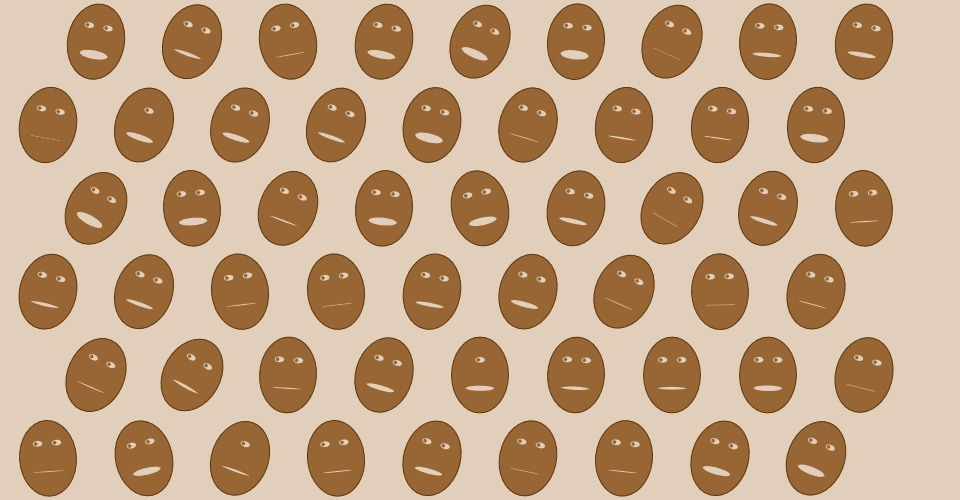
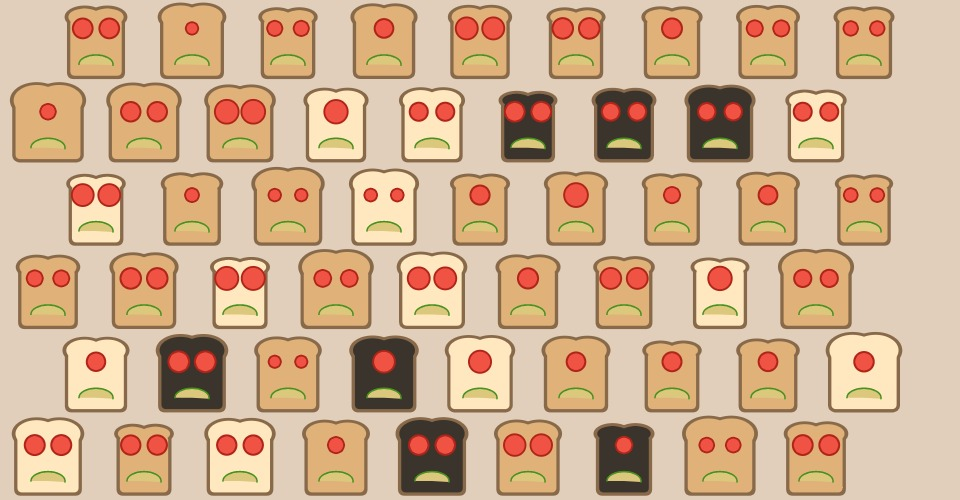
First Update - Copying Face Code

diff --git a/face.js b/face.js
@@ -4,14 +4,19 @@
 function Face() {
   // these are state variables for a face
   // (your variables may be different)
-  this.tilt_value = 0;
   this.eye_value = 2;
+  this.eye_size = 0;
   this.mouth_value = 0;
+  this.bread_value = 0;
+  this.colour_value = 0;
 
   // other variables can be in here too
   // these control the colors used
-  this.bg_color = [225, 206, 187];
-  this.fg_color = [151, 102, 52];
+  this.bg_color = [47, 59, 64];
+
+  this.fg_color1 = [255, 231, 191];
+  this.fg_color2 = [224,177,120];
+  this.fg_color3 = [59, 52, 44];
   this.stroke_color = [95, 52, 8];
 
   /*
@@ -28,8 +33,7 @@ function Face() {
 
     push();
     translate(x, y);
-    rotate(this.tilt_value);
-
+    rectMode(CENTER);
     var extent = 0;
     if(h < w) {
       extent = h / 2;
@@ -39,33 +43,58 @@ function Face() {
     }
     var scale = extent / 220.0;
 
+    //crust
+    fill(136, 106, 75);
+    rect(0, 30 * scale, (335 * scale) + this.bread_value, 335 * scale, 7);
+    ellipse(-60 * scale, -130 * scale, (240 * scale) + this.bread_value, (150 * scale) + this.bread_value);
+    ellipse(60 * scale, -130 * scale, (240* scale) + this.bread_value, (150 *scale) + this.bread_value);
+
     // head
-    stroke(this.stroke_color);
-    fill(this.fg_color);
-    ellipse(0, 0, 300 * scale, 400 * scale);
     noStroke();
 
+    if (this.colour_value <= 1){
+      fill(this.fg_color1);
+      }
+      if (this.colour_value == 2){
+        fill(this.fg_color2);
+      }
+    if (this.colour_value > 2){
+      fill(this.fg_color3);
+    }
+
+    rect(0, 30 * scale, (300 * scale) + this.bread_value, 300 * scale, 5);
+    ellipse(-60 * scale, -130 * scale, (200 * scale) + this.bread_value, (120 * scale) + this.bread_value);
+    ellipse(60 * scale, -130 * scale, (200* scale) + this.bread_value, (120 *scale) + this.bread_value);
+
+
+
+
     // eyes
-    if (this.eye_value === 1 || this.eye_value == 3) {
-      fill(this.bg_color);
-      ellipse( 0, -80 * scale, 50 * scale, 30 * scale);
-      fill(this.fg_color);
-      ellipse(-10 * scale, -80 * scale, 20 * scale, 20 * scale);
+    if (this.eye_value === 1) {
+    fill(176, 36, 26);
+    ellipse(0, -70 * scale, (100 * scale) + this.eye_size, (100 * scale)+ this.eye_size);
+
+    fill(240,82,67);
+    ellipse(0, -70 * scale, (80 * scale)+ this.eye_size, (80 * scale)+ this.eye_size);
     }
 
     if (this.eye_value >= 2) {
-      fill(this.bg_color);
-      ellipse(-50 * scale, -80 * scale, 50 * scale, 30 * scale);
-      ellipse( 50 * scale, -80 * scale, 50 * scale, 30 * scale);
+    fill(176, 36, 26);
+    ellipse(-70 * scale, -70 * scale, (100 * scale)+ this.eye_size, (100 * scale)+ this.eye_size);
+    ellipse( 70 * scale, -70 * scale, (100 * scale)+ this.eye_size, (100 * scale)+ this.eye_size);
 
-      fill(this.fg_color);
-      ellipse(-60 * scale, -80 * scale, 20 * scale, 20 * scale);
-      ellipse( 40 * scale, -80 * scale, 20 * scale, 20 * scale);
+    fill(240,82,67);
+    ellipse(-70 * scale, -70 * scale, (80 * scale)+ this.eye_size, (80 * scale)+ this.eye_size);
+    ellipse( 70 * scale, -70 * scale, (80 * scale)+ this.eye_size, (80 * scale)+ this.eye_size);
     }
 
     // mouth
-    fill(this.bg_color);
-    ellipse(0 * scale, 70 * scale, 150 * scale, this.mouth_value * scale);
+    fill(219, 200, 124);
+    stroke(70, 145, 31);
+    strokeWeight(1.5);
+    arc(0, 120 *scale, 180 * scale, 100 * scale, 180 , PI);
+    noStroke();
+
     pop();
   }
 
@@ -108,7 +137,7 @@ function Face() {
 
     // head
     stroke(this.stroke_color);
-    fill(this.fg_color);
+    fill(this.fg_color1);
     ellipse(0, 0, 300 * scale, 400 * scale);
     noStroke();
 
@@ -123,7 +152,7 @@ function Face() {
     ellipse(eye1_pos[0], eye1_pos[1], 50 * scale, 30 * scale);
     ellipse(eye2_pos[0], eye2_pos[1], 50 * scale, 30 * scale);
 
-    fill(this.fg_color);
+    fill(this.fg_color1);
     ellipse(eye1_pos[0], eye1_pos[1], 20 * scale, 20 * scale);
     ellipse(eye2_pos[0], eye2_pos[1], 20 * scale, 20 * scale);
   }
@@ -131,22 +160,34 @@ function Face() {
   /*
    * Update internal state variables to a random state.
    */  
-  this.randomize = function(values, size) {
+  this.randomize = function() {
     this.eye_value = getRandomNumberOfEyes();
-    this.tilt_value = focusedRandom(-70, 90, 8);
     this.mouth_value = focusedRandom(0, 50, 4, 1);
+    this.bread_value = focusedRandom(-10, 10);
+    this.eye_size = focusedRandom(-5, 7);
+    this.colour_value = getRandomColour();
   }
 }
 
 // global functions can also be in this file below
 
-function getRandomNumberOfEyes() {
+function getRandomColour() {
   random_result = focusedRandom(0, 100);
-  if(random_result < 8) {
+  if(random_result < 30) {
     return 1;
   }
-  else if(random_result < 12) {
+  else if(random_result < 90) {
+    return 2;
+  }
+  else{
     return 3;
+  }
+}
+
+function getRandomNumberOfEyes() {
+  random_result = focusedRandom(0, 100);
+  if(random_result < 50) {
+    return 1;
   }
   else {
     return 2;

diff --git a/README.md b/README.md
@@ -1,8 +1,1 @@
-## PS1 MDDN 342 2017
-
-
-Final README.
-
-This should include a summary of all of the work leading up to the final version (which I am omitting in this example), so it should be longer than the other READMEs.
-
-In my final version I have used a shifted grid layout with some jitter.
+I have started copying across my code from ps1. I have had to tweak some sizing and increased the variation of the shapes. I still have some shapes to update and would like to add more features to the face such as more food.
